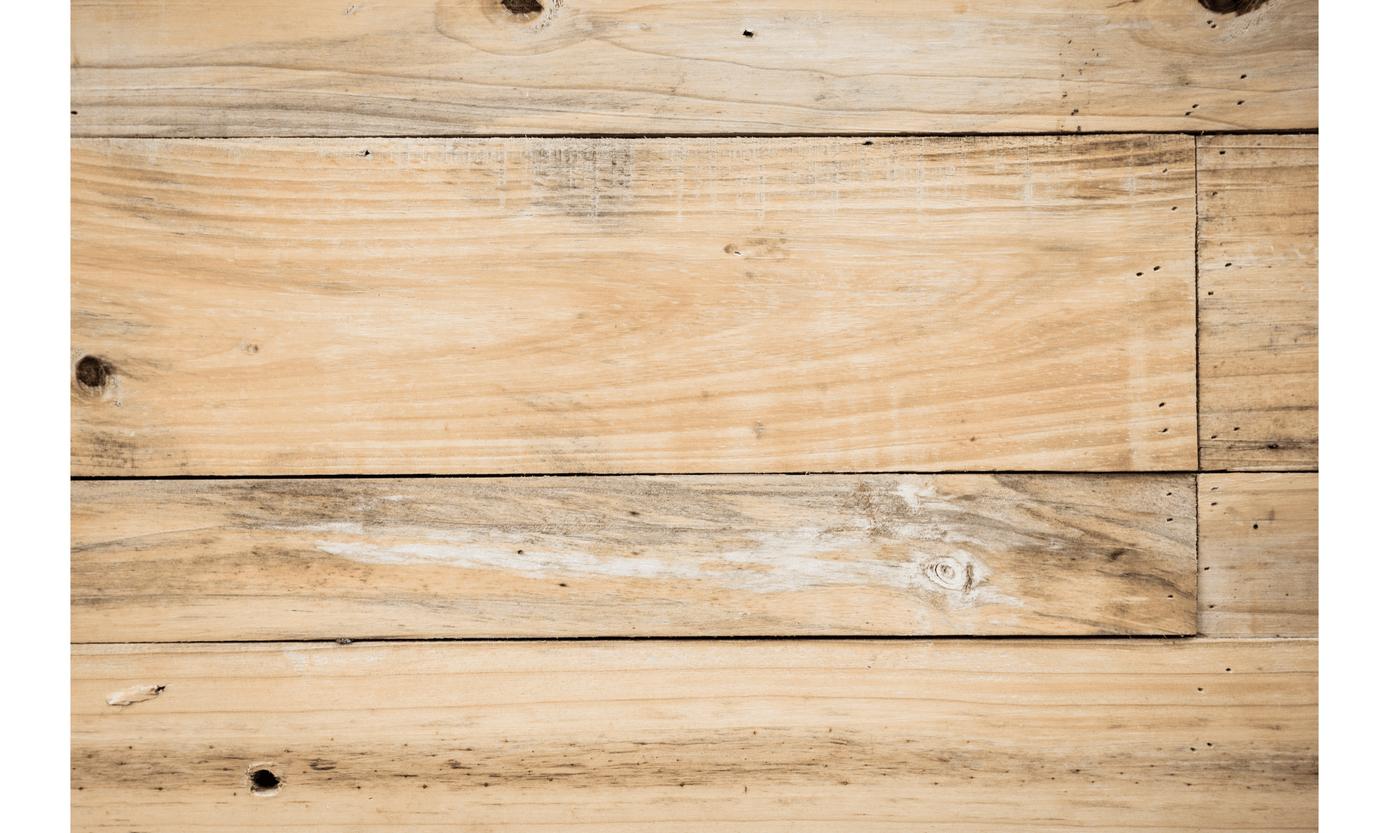
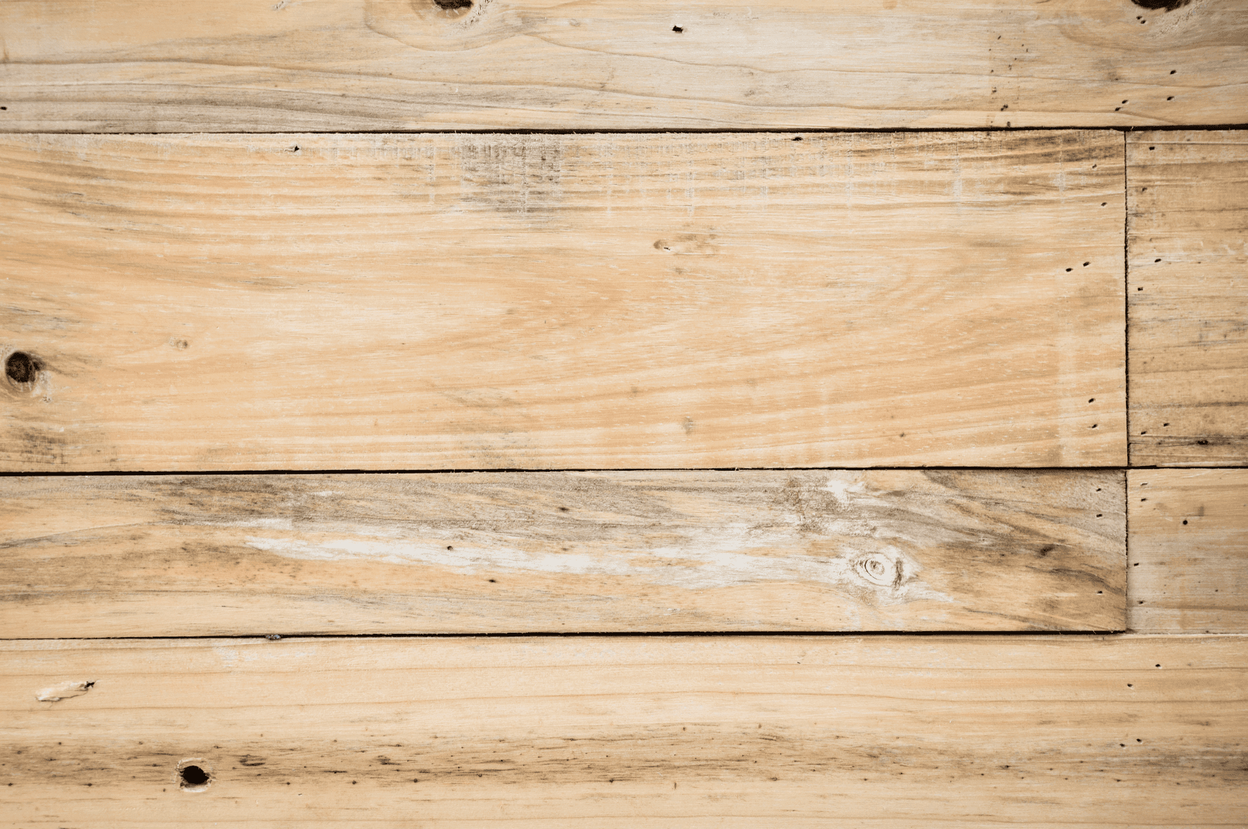
modifs backgrounds

diff --git a/styles/style.css b/styles/style.css
@@ -38,7 +38,9 @@ body {
 /* --------------------header-------------------- */
 .titre-principal {
   background: url(../../ressources/images/background1.png);
-  background-position: center;
+  background-position: bottom;
+  background-size: cover;
+  background-repeat: no-repeat;
   border: 5px solid #9b9a9a;
   text-shadow: 0px 3px 5px rgba(121, 121, 121, 0.6);
 }

diff --git a/styles/layout/_index.scss b/styles/layout/_index.scss
@@ -23,7 +23,9 @@ body {
 
 .titre-principal {
   background: $background-primary;
-  background-position: center;
+  background-position: bottom;
+  background-size: cover;
+  background-repeat: no-repeat;
   border: 5px solid $color-primary;
   text-shadow: $shadow-text;
 

diff --git a/styles/utils/_mixins.scss b/styles/utils/_mixins.scss
@@ -106,7 +106,6 @@
 }
 @mixin txt-items {
   width: 100%;
-  // background: #f1f1f1;
   background: $color-secondary;
   border: 5px solid $color-primary;
   color: #333;
